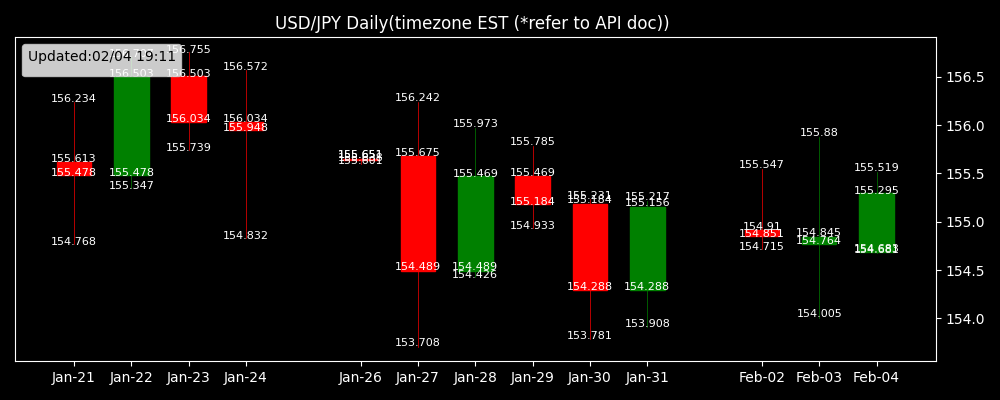
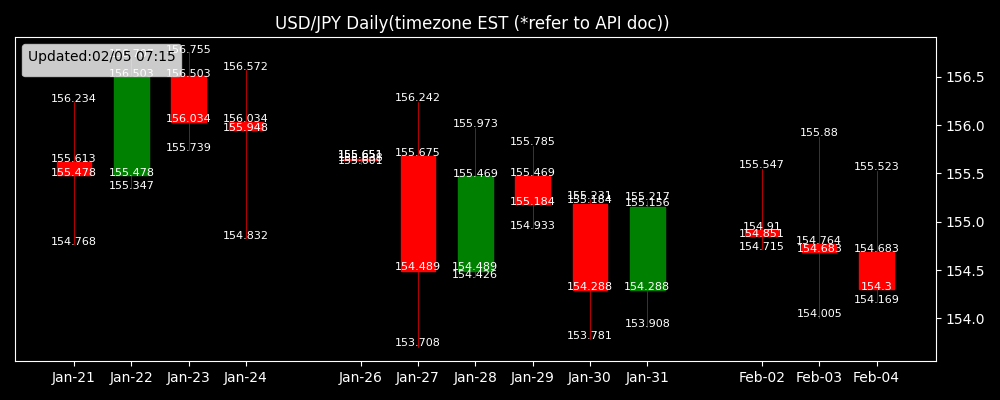
crongenerated

Changed region(s): [[0.775, 0.39, 0.899, 0.78], [0.124, 0.12, 0.186, 0.15]]

diff --git a/docs/src/dashboard/marketinfo.html b/docs/src/dashboard/marketinfo.html
@@ -14,16 +14,16 @@
     </style>
 </head>
 <body>
-    <h3> 概況 (更新： 02/04 19:11 ) </h3>
-    <p>このデータは2025年1月21日から2月4日までの為替レートに関するものである。直近の動きを見ると、全体的にレンジ相場の中で、わずかに上昇気配が見られる可能性がある。1月21日から始まり、2月4日までにかけて、終値は概ね154円から156円の間で推移している。
+    <h3> 概況 (更新： 02/05 07:15 ) </h3>
+    <p>最近の為替市場の動向について、以下のように分析されることが考えられます。
 
-1月23日から24日にかけて、為替レートは一時的に高値の156円台まで上昇したが、その後は全般的に155円台前後で変動している。その後、1月27日から下落が見られるが、1月28日以降は再び上昇を見せ、2月4日時点で155.295円で引けている。
+全体として、為替レートは1月22日から2月4日にかけて155.613から154.3まで徐々に下落している。この期間の初期から中間にかけて（1月22日から1月24日）高値を更新したものの、その後は下落基調が続いていることが見て取れる。特筆すべきは、1月30日における取引量が非常に多く、市場に大きな動きがあった可能性を示唆している。これは何らかの外部的な要因によるものかもしれない。
 
-2月3日と4日は出来高が相対的に低いが、1月30日、31日には出来高が増加している。この増加は市場参加者が何らかの材料を織り込んでいる可能性を示唆しているかもしれない。
+最近のニュースとして、米国の経済指標が予想よりも悪化し、ドルの強さに影響を与えている可能性がある。また、欧州中央銀行（ECB）や日本銀行（BOJ）の金融政策についての憶測も、取引の動向に影響を与えていると考えられる。これにより、ポジション調整が行われた可能性がある。
 
-外部要因として、国際的な金融イベントや政策の変更、または突発的な地政学的リスクなどが市場の心理に影響を与えている可能性が考えられる。具体的なニュースとしては、各国の中央銀行の金融政策や、主要経済指標の発表が影響を及ぼしているかもしれない。
+さらに、1月26日の市場では取引量が全くなく、これは異常な状況であり、どのような要因であったか注目を集めるだろう。この日をはさんでボラティリティが高まる傾向が認められ、短期的な取引におけるリスクが増大していた可能性を示唆する。
 
-全体として、目先のレンジ相場からの抜け出しには、さらなる外部要因や市場の材料が必要かもしれない。市場参加者は、今後の動向に注意を払う必要があるだろう。</p>
+このように、為替市場は複数の要因が影響し合い、方向性がつかみにくい状況にあると考えられるが、細心の注意を払って今後の市場動向を観察することが重要である。マーケットセンチメントや各国の政策発表が大きな鍵を握るだろう。</p>
 
     <p>Text generated from ChatGPT API.</p>
 

diff --git a/docs/src/dashboard/forecast_text.html b/docs/src/dashboard/forecast_text.html
@@ -5,10 +5,17 @@
     
 </head>
 <body>
-    <h3>今日の天気 (02-04 Tue)</h3>
-    <p>2月4日の東京の天気をお知らせします。この日は全体的に晴れの予報で、気温は日中に最高で8.9°C、夜間は最低で2.7°Cです。降水量は0mmで、雨の心配はありません。
+    <h3>今日の天気 (02-05 Wed)</h3>
+    <p>2月5日の天気をお伝えします。
 
-日照時間は27,392秒、すなわち約7.6時間の日照が見込まれています。UVインデックスの最大値は3.2です。このレベルは中程度の紫外線リスクを示しており、長時間日差しを浴びる可能性がある場合は、日傘や帽子での注意が推奨されます。ただ、短時間の外出や日陰を選ぶ場合は必ずしも日傘が必要ではないかもしれません。</p>
-    (更新：02/04 19:11)
+- 気温は最低約0.5°C、最高約7.5°Cです。一日を通して晴れ、もしくは晴天が続きます。
+- 降水はありませんので、傘の必要はありません。
+
+追加情報として：
+- 日照時間は約9.7時間（34912.29秒）です。
+- UVインデックスは最大4.05です。
+
+UVインデックス4は中程度の紫外線レベルを示します。この程度の場合、午前10時から午後4時の間は特に日差しが強いため、日傘や帽子を使うと良いでしょう。したがって、日中の外出時には日傘を持って行くことをお勧めします。</p>
+    (更新：02/05 07:15)
 
 </html>
